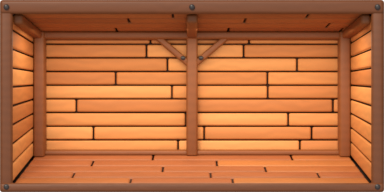
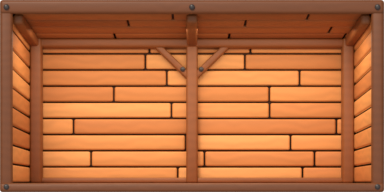
Комната: пол виден ребром, как на прототипе; фон опускается к самой низкой земле в кадре
Низ слоёв фона продлён ровным цветом — без полос там, где земля ниже базы.

Claude-Session: https://claude.ai/code/session_01Gsst3hFuf1c6zM4f6Jt7o5

diff --git a/art_src/backgrounds/prepare.py b/art_src/backgrounds/prepare.py
@@ -11,6 +11,8 @@ from PIL import Image
 HERE = os.path.dirname(os.path.abspath(__file__))
 OUT = os.path.join(HERE, '..', '..', 'assets', 'background')
 EDGE = 0.22   # доля ширины на перетекание у каждого края
+PAD = 0.3     # снизу дорисовываем столько (доля высоты): переход в ровный цвет низа.
+              # Шейдер ниже картинки повторяет последнюю строку — она однотонная, без полос.
 
 LAYERS = {
     'mountains': ['mountains_1', 'mountains_2'],
@@ -93,6 +95,21 @@ def seam_layer(names):
     return out, y0
 
 
+def pad_bottom(imgs):
+    """Продлить низ всех вариантов: нижние строки плавно уходят в общий средний цвет."""
+    h = imgs[0].shape[0]
+    n = int(h * PAD)
+    base = np.mean([im[-max(4, h // 12):].reshape(-1, 4).mean(axis=0) for im in imgs], axis=0)
+    out = []
+    for im in imgs:
+        last = im[-1]
+        t = (np.arange(1, n + 1, dtype=np.float32) / n)[:, None, None]
+        t = t * t * (3 - 2 * t)
+        ext = last[None] * (1 - t) + base[None, None] * t
+        out.append(np.concatenate([im, ext], axis=0))
+    return out
+
+
 def clouds():
     src = Image.open(os.path.join(HERE, 'clouds.png')).convert('RGBA')
     cw, ch = CLOUD_CELL
@@ -112,6 +129,7 @@ if __name__ == '__main__':
     os.makedirs(OUT, exist_ok=True)
     for layer, names in LAYERS.items():
         imgs, y0 = seam_layer(names)
+        imgs = pad_bottom(imgs)
         for i, im in enumerate(imgs):
             save(im, os.path.join(OUT, '%s_%d.png' % (layer, i + 1)))
         print(layer, len(imgs), 'x', imgs[0].shape[1], imgs[0].shape[0], 'crop y0', y0)

diff --git a/art_src/rooms/build_rooms.py b/art_src/rooms/build_rooms.py
@@ -120,7 +120,7 @@ def bolt(x, z, y, m):
 # поэтому передняя рама ровно совпадает с клетками, а глубина одинакова у комнат 3/6/9.
 D = 1.5                 # глубина комнаты (м)
 FS, FT, FB = 0.2, 0.22, 0.14   # толщина передней рамы: бок, верх, низ
-INSET = (0.36, 0.3, 0.46)      # насколько сужается к задней стене: бок, потолок, пол
+INSET = (0.3, 0.42, 0.0)       # насколько сужается к задней стене: бок, потолок, пол (0 — пол виден ребром, как на прототипе)
 
 
 def warp(objs, w):

diff --git a/docs/DESIGN_PLAN.md b/docs/DESIGN_PLAN.md
@@ -18,7 +18,7 @@
 
 ## Шаги
 1. Фон — готов (лето): `art_src/backgrounds/prepare.py` → `assets/background/`, слои
-   в `shaders/sky.gdshader`, сравнение `docs/art/background_compare.png`.
+   в `shaders/sky.gdshader` стоят на самой низкой земле в кадре (сглаженно), сравнение `docs/art/background_compare.png`.
    Осталось: второй вариант холмов перегенерировать; осень/зима картинками.
 2. Земля — серые текстуры с полосами, подкраска цветом породы; кромка травы.
 3. Комнаты — сначала пустая деревянная (готова, с объёмом: `art_src/rooms/build_rooms.py`
@@ -33,7 +33,8 @@
 - Клетка 32 px, комнаты 3/6/9 × 3 клетки (`Project.ROOM_HEIGHT`, `Hud.ROOM_SIZES`).
 - Рендер 2× (64 px на клетку), в игре — с мипмапами (`structures.texture_filter`).
 - Объём комнаты: внутренность строится коробкой глубиной 1,5 м и сжимается к задней
-  стене на постоянный отступ (`warp`, `INSET` — бок/потолок/пол), камера ортогональная —
+  стене на постоянный отступ (`warp`, `INSET` — бок/потолок/пол; пол 0 — виден ребром,
+  как на прототипе, так решил автор), камера ортогональная —
   рама ровно по клеткам, глубина одинакова у 3/6/9. Быстрая проба:
   `ROOMS_OUT=/tmp/r ROOMS_WIDTHS=6 ROOMS_SAMPLES=24 python3 art_src/rooms/build_rooms.py`.
 - `StructureLayer.room_texture(material, w)` берёт `assets/rooms/<материал>_<ширина>.png`,
